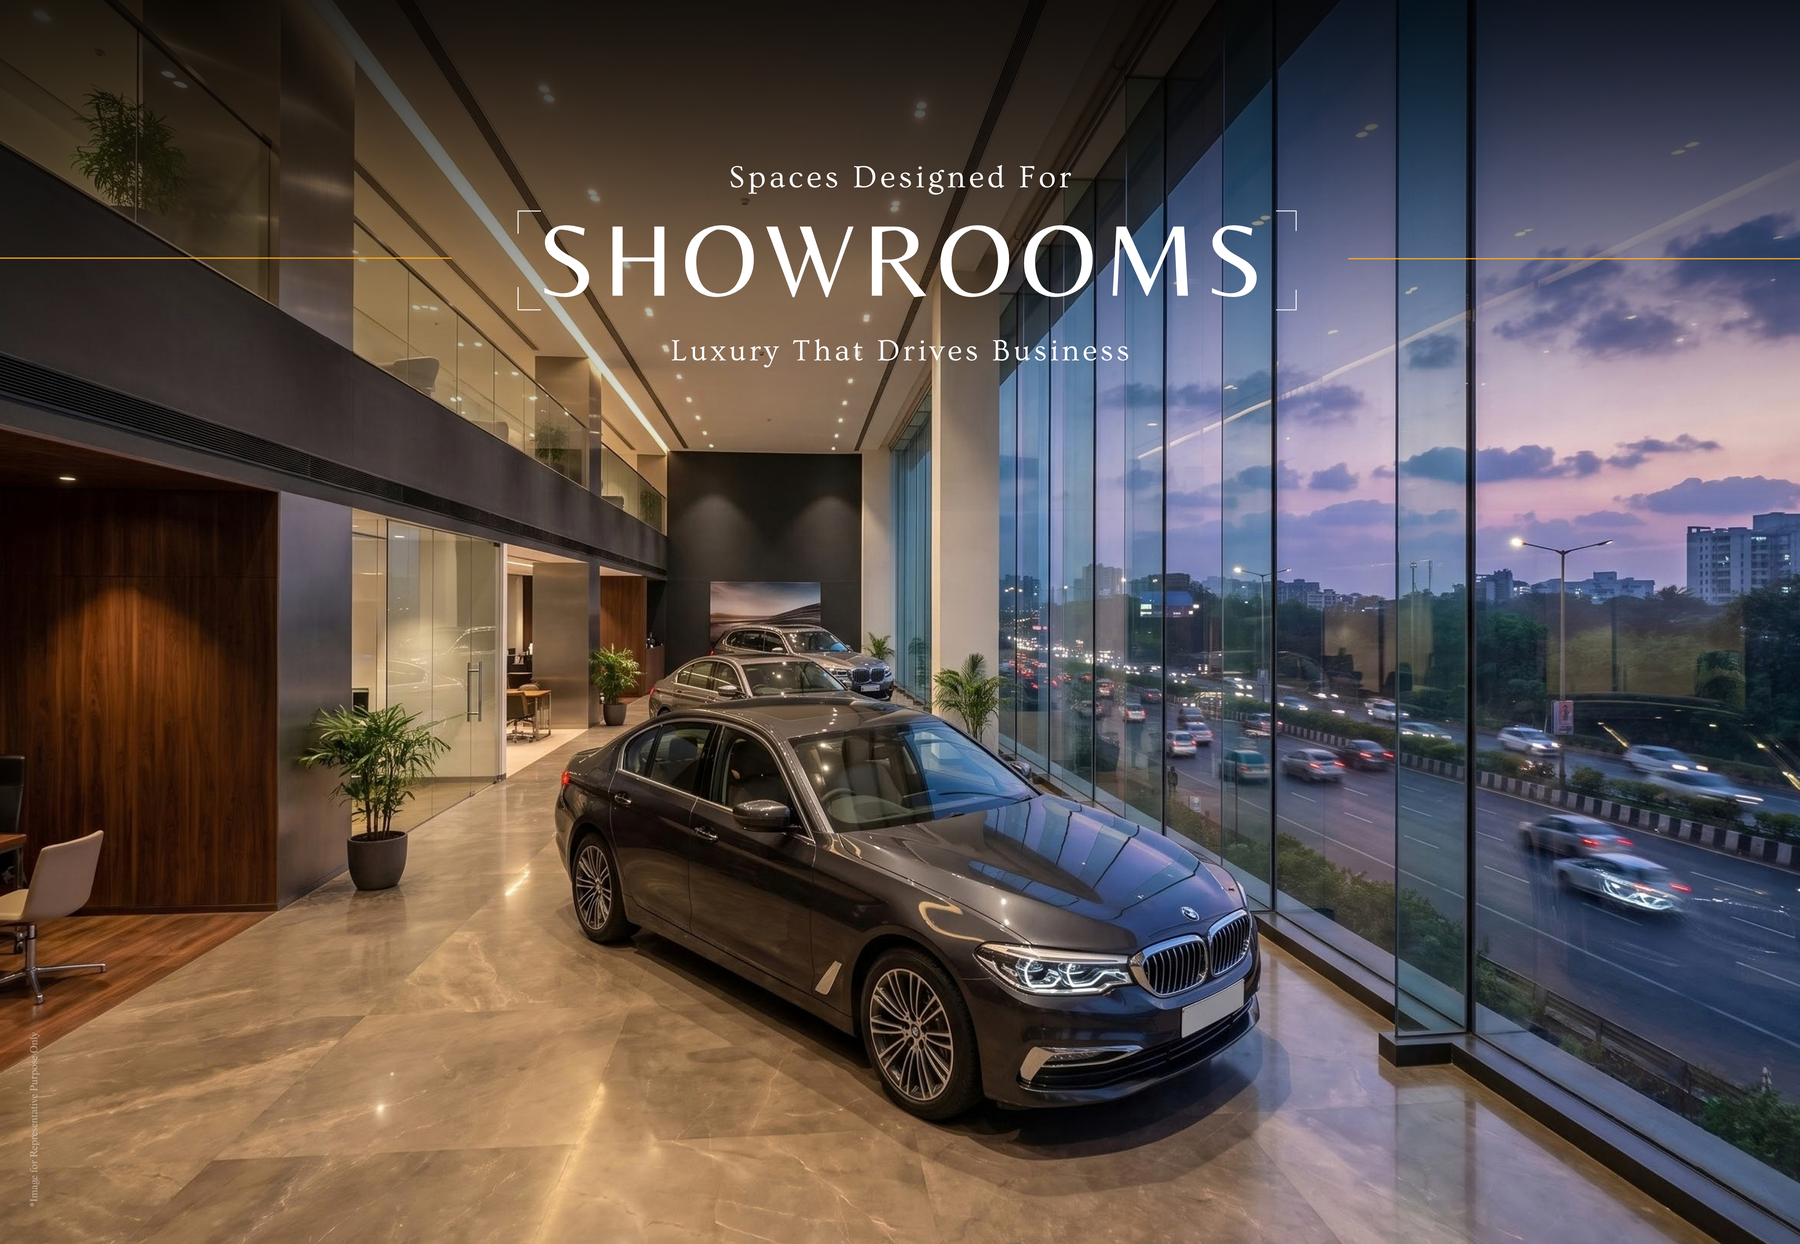
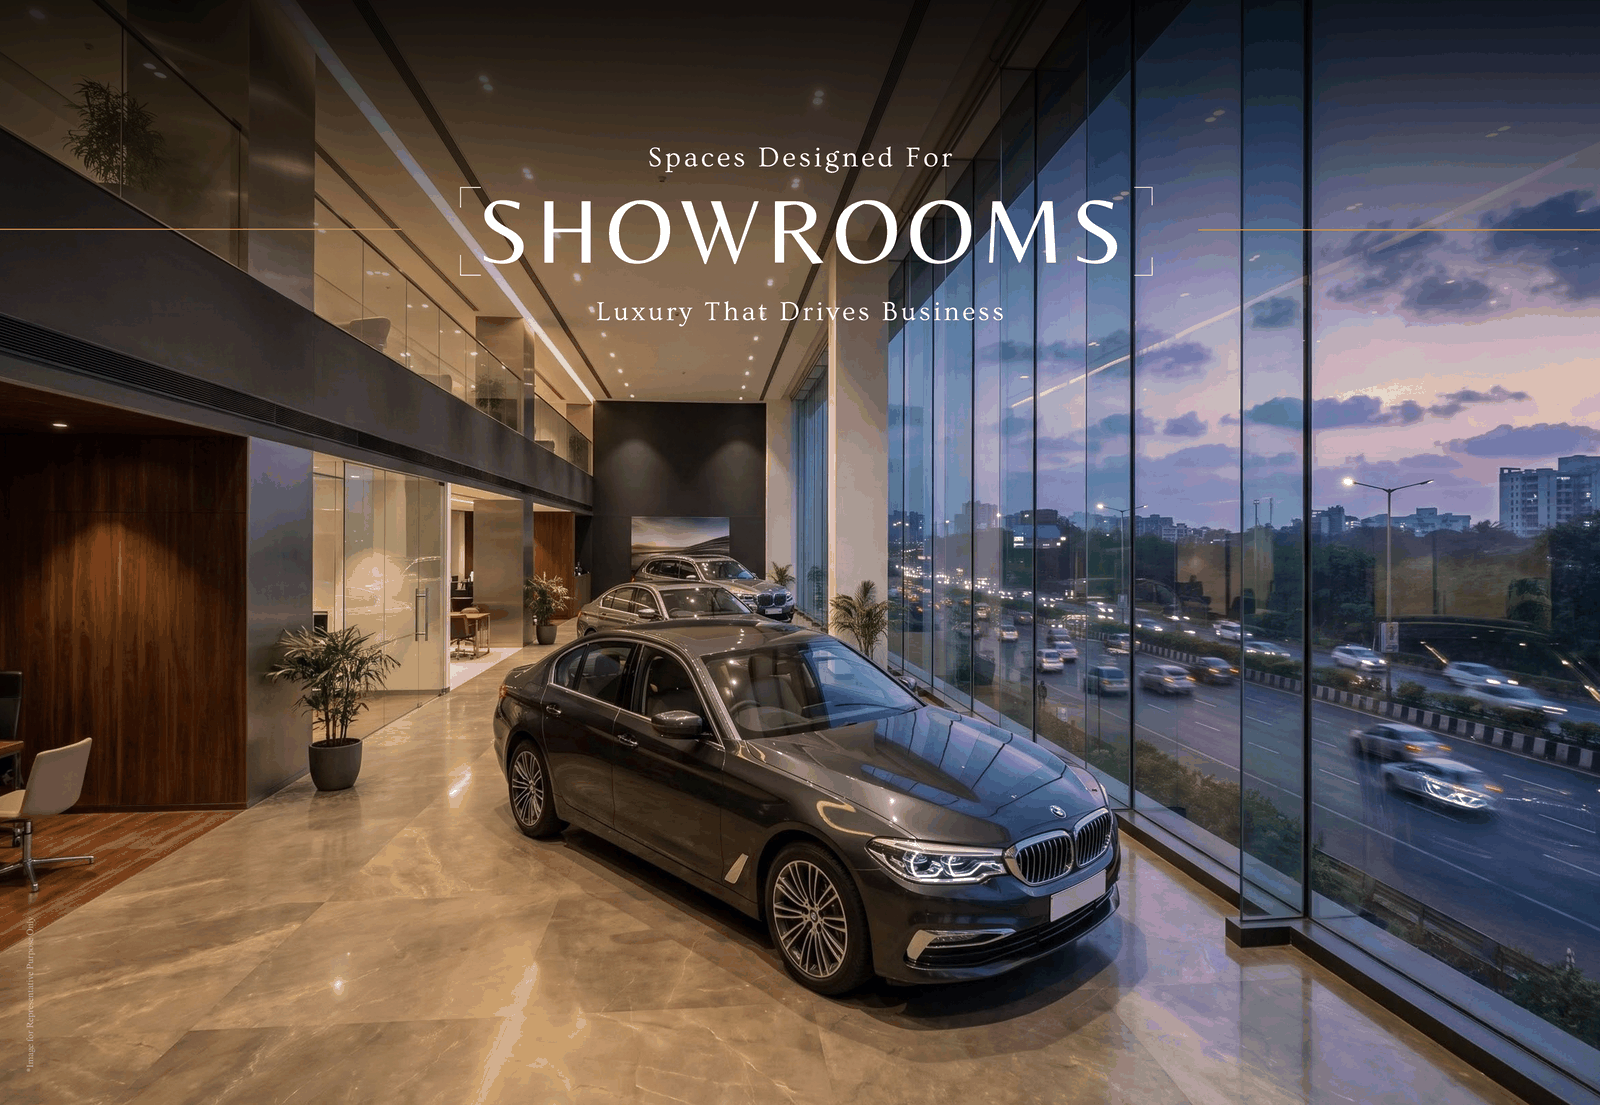
reduce images siza

diff --git a/src/components/ImageSlider.jsx b/src/components/ImageSlider.jsx
@@ -14,6 +14,16 @@ const ImageSlider = () => {
     setCurrentIndex((prev) => (prev === slides.length - 1 ? 0 : prev + 1));
   };
 
+  // Preload all hero slide images immediately to ensure zero delay or blank frames during transition
+  useEffect(() => {
+    slides.forEach((slide) => {
+      if (slide.image) {
+        const img = new Image();
+        img.src = slide.image;
+      }
+    });
+  }, [slides]);
+
   useEffect(() => {
     const interval = setInterval(() => {
       nextSlide();
@@ -31,14 +41,14 @@ const ImageSlider = () => {
             }`}
         >
           <picture className="w-full h-full block">
-            {/* {slide.mobileImage && (
+            {slide.mobileImage && (
               <source media="(max-width: 768px)" srcSet={slide.mobileImage} />
-            )} */}
+            )}
             <img
               src={slide.image}
               alt={slide.title || 'Hero Slide'}
-              loading={index === 0 ? 'eager' : 'lazy'}
-              fetchPriority={index === 0 ? 'high' : 'low'}
+              loading="eager"
+              fetchPriority={index === 0 ? 'high' : 'auto'}
               decoding="async"
               className="w-full h-full object-cover object-center"
             />

diff --git a/src/components/AmenitiesSection.jsx b/src/components/AmenitiesSection.jsx
@@ -7,14 +7,14 @@ const commercialFeatures = [
     number: '01',
     title: "Luxury Showroom Spaces",
     description: "Double-height Sizes designed for luxury retail brands and high-footfall showrooms.",
-    image: '/images/Showroom.png',
+    image: '/images/Showroom.jpg',
     icon: Store
   },
   {
     number: '02',
     title: "Corporate Office Suites",
     description: "Modern commercial office spaces engineered for business growth, efficiency, and comfort.",
-    image: '/images/OfficeSpace.png',
+    image: '/images/OfficeSpace.jpg',
     icon: Building2
   },
   {
@@ -28,7 +28,7 @@ const commercialFeatures = [
     number: '04',
     title: "Chikhloli Railway Station & Metro",
     description: "Located just opposite to upcoming Chikhloli Railway Station and also 500m to proposed Metro line.",
-    image: '/images/amenity_location.png',
+    image: '/images/amenity_location.jpg',
     icon: Zap
   },
   {

diff --git a/src/components/GallerySection.jsx b/src/components/GallerySection.jsx
@@ -8,14 +8,14 @@ const galleryItems = [
     id: 1,
     title: "Luxury Showroom Spaces (Ground Floor)",
     category: "Showroom & Office Spaces",
-    image: "/images/Showroom.png",
+    image: "/images/Showroom.jpg",
     type: "featured"
   },
   {
     id: 2,
     title: "Corporate Executive Office Suites",
     category: "Showroom & Office Spaces",
-    image: "/images/OfficeSpace.png",
+    image: "/images/OfficeSpace.jpg",
     type: "top_right_1"
   },
   {
@@ -29,7 +29,7 @@ const galleryItems = [
     id: 4,
     title: "Opposite Chikhloli Railway Station",
     category: "Exterior & Location",
-    image: "/images/amenity_location.png",
+    image: "/images/amenity_location.jpg",
     type: "bottom_1"
   },
   {

diff --git a/src/data/projectData.js b/src/data/projectData.js
@@ -22,20 +22,19 @@ export const projectDetails = {
   heroSlides: [
     {
       id: 1,
-       image: "/images/HeroImg2.jpeg",
+      image: "/images/HeroImg2.jpeg",
     },
     {
       id: 2,
-      image: "/images/Showroom.png",
+      image: "/images/Showroom.jpg",
     },
     {
       id: 3,
-      image: "/images/OfficeSpace.png",
+      image: "/images/OfficeSpace.jpg",
     },
     {
       id: 4,
-      image: "/images/Hero4.png",
-      // mobileImage: "/images/Hero_locarion_mobile.png",
+      image: "/images/Hero4.jpg",
     }
   ],
 
